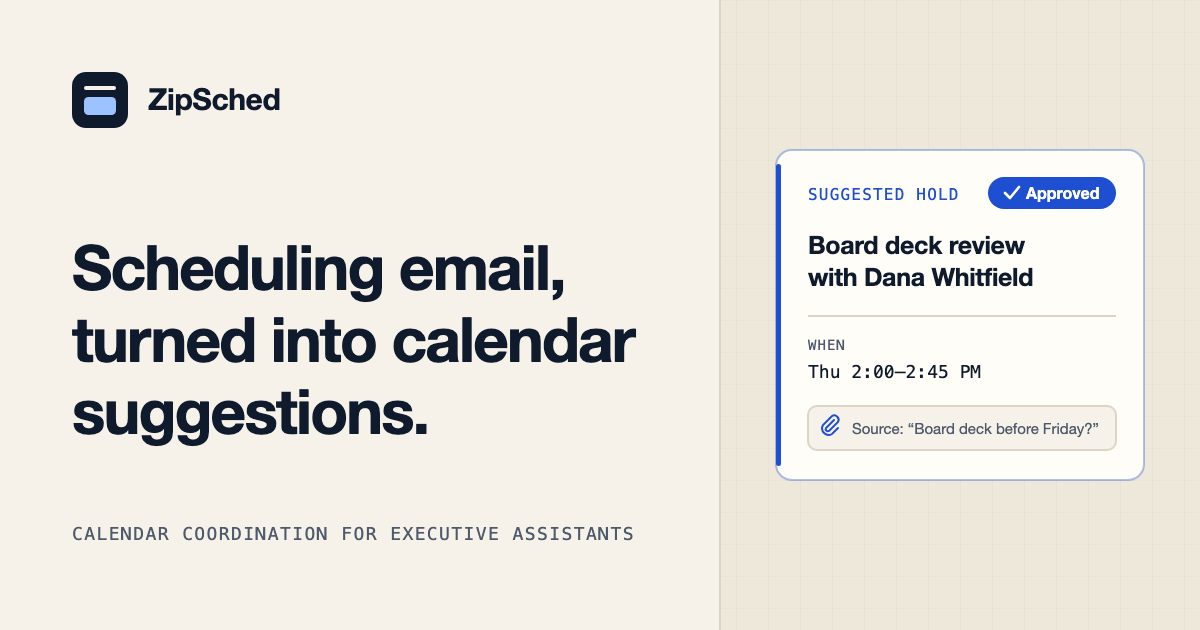
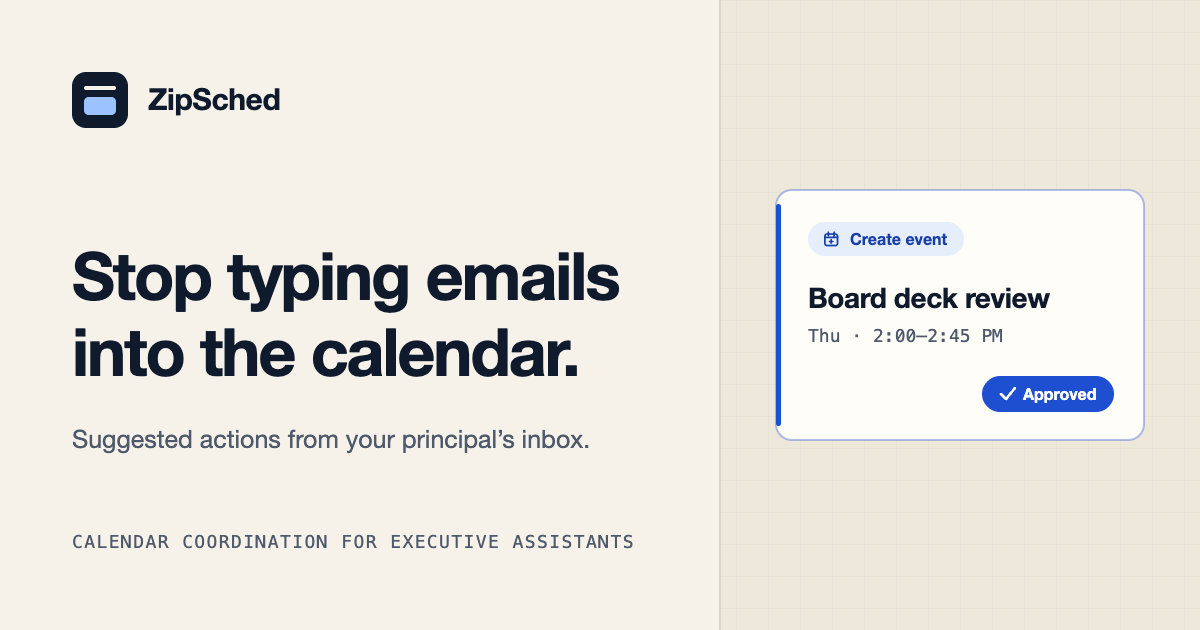
chore(meta): match the title, previews and social card to the new hero
- Tab title and og:title: "ZipSched — Stop typing emails into the
  calendar".
- Meta description and og:description restate the subtitle's three
  suggested actions; og:image:alt follows the headline.
- The social card carries the new headline, the line "Suggested actions
  from your principal's inbox." and a card drawn like the demo's (a
  Create event tag and an Approved tag, no source chip).
  social-card.png is re-rendered from the SVG at 1200x630.

Changed region(s): [[0.6475, 0.2111, 0.9558, 0.7841], [0.0617, 0.3921, 0.5242, 0.7238], [0.0617, 0.8143, 0.5242, 0.8746]]

diff --git a/index.html b/index.html
@@ -3,19 +3,19 @@
 <head>
   <meta charset="utf-8">
   <meta name="viewport" content="width=device-width, initial-scale=1">
-  <title>ZipSched — Scheduling email, turned into calendar suggestions</title>
-  <meta name="description" content="ZipSched reads your principal’s scheduling email and proposes the calendar change with the source email attached, for executive assistants to review and approve.">
+  <title>ZipSched — Stop typing emails into the calendar</title>
+  <meta name="description" content="ZipSched converts your principal’s inbox into suggested actions: create an event, send available times, or add an invitee. Review, edit, and approve in one click.">
   <meta name="theme-color" content="#f6f2e9">
   <link rel="canonical" href="https://zipsched.com/">
   <link rel="icon" href="favicon.svg" type="image/svg+xml">
-  <meta property="og:title" content="ZipSched — Calendar coordination for executive assistants">
-  <meta property="og:description" content="Scheduling email, turned into calendar suggestions you review and approve.">
+  <meta property="og:title" content="ZipSched — Stop typing emails into the calendar">
+  <meta property="og:description" content="Suggested actions from your principal’s inbox: create an event, send available times, or add an invitee. Approve in one click.">
   <meta property="og:type" content="website">
   <meta property="og:url" content="https://zipsched.com/">
   <meta property="og:image" content="https://zipsched.com/social-card.png">
   <meta property="og:image:width" content="1200">
   <meta property="og:image:height" content="630">
-  <meta property="og:image:alt" content="ZipSched: scheduling email, turned into calendar suggestions.">
+  <meta property="og:image:alt" content="ZipSched: Stop typing emails into the calendar.">
   <meta name="twitter:card" content="summary_large_image">
   <script>document.documentElement.classList.add("js");</script>
   <link rel="stylesheet" href="styles.css">
